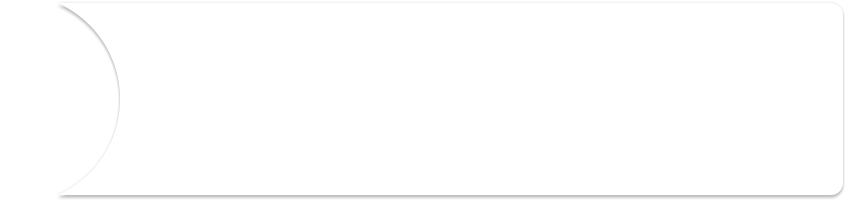
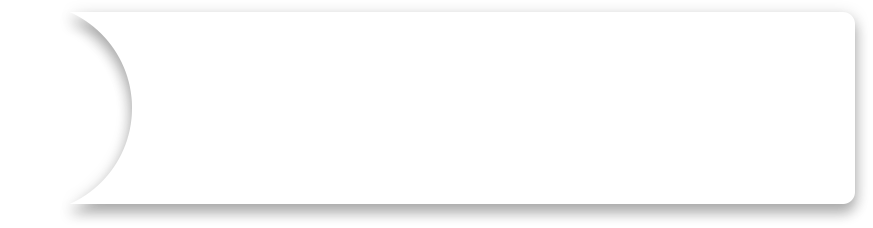
集成

Changed region(s): [[0.0612, 0.0882, 1.0, 0.9706], [0.0612, 0.0882, 0.1531, 0.6471], [0.0612, 0.0294, 0.0919, 0.0588]]

diff --git a/WPFWordAndImgOperationServer/BrowseSearchTXT/MainWindow.xaml b/WPFWordAndImgOperationServer/BrowseSearchTXT/MainWindow.xaml
@@ -5,7 +5,7 @@
         xmlns:mc="http://schemas.openxmlformats.org/markup-compatibility/2006"
         xmlns:local="clr-namespace:BrowseSearchTXT"
         WindowStyle="None" ResizeMode="NoResize" AllowDrop="True" ShowInTaskbar="False"
-        AllowsTransparency="True" Width="316" Height="70" Topmost="True"
+        AllowsTransparency="True" Width="318" Height="76" Topmost="True"
         Loaded="Window_Loaded" Unloaded="Window_Unloaded"
         Drop="MainWindow_Drop" 
         DragLeave="Window_DragLeave"
@@ -125,21 +125,21 @@
         <Grid ContextMenu="{StaticResource NotifyIconMenu}"
               Cursor="Hand" MouseLeftButtonDown="Grid_MouseLeftButtonDown">
             <Grid.ColumnDefinitions>
-                <ColumnDefinition Width="70"></ColumnDefinition>
+                <ColumnDefinition Width="75"></ColumnDefinition>
                 <ColumnDefinition></ColumnDefinition>
             </Grid.ColumnDefinitions>
-            <Grid Grid.Column="0" Grid.ColumnSpan="2" Width="283" Height="68" 
+            <Grid Grid.Column="0" Grid.ColumnSpan="2" Width="291" Height="76" 
                   HorizontalAlignment="Right" VerticalAlignment="Center">
                 <Grid.Background>
                     <ImageBrush ImageSource="Images/Bg.png" Stretch="Fill"></ImageBrush>
                 </Grid.Background>
             </Grid>
-            <Grid Grid.Column="0" Visibility="{Binding TitleLogoVisibility}" Width="68" Height="68" 
+            <Grid Grid.Column="0" Visibility="{Binding TitleLogoVisibility}" Width="75" Height="76" 
                   HorizontalAlignment="Right" VerticalAlignment="Center">
                 <Image Source="Images/TitleLogo.png" Stretch="Fill"></Image>
             </Grid>
             <Grid Grid.Column="0" Visibility="{Binding ReturnBtnVisibility}"
-                  Width="68" Height="68" HorizontalAlignment="Right" VerticalAlignment="Center">
+                  Width="75" Height="76" HorizontalAlignment="Right" VerticalAlignment="Center">
                 <Image Source="Images/ReturnLogo.png" Stretch="Fill" MouseLeftButtonDown="Border_MouseLeftButtonDown"></Image>
             </Grid>
             <Grid Grid.Column="1" Visibility="{Binding InputCheckGridVisibility}">
